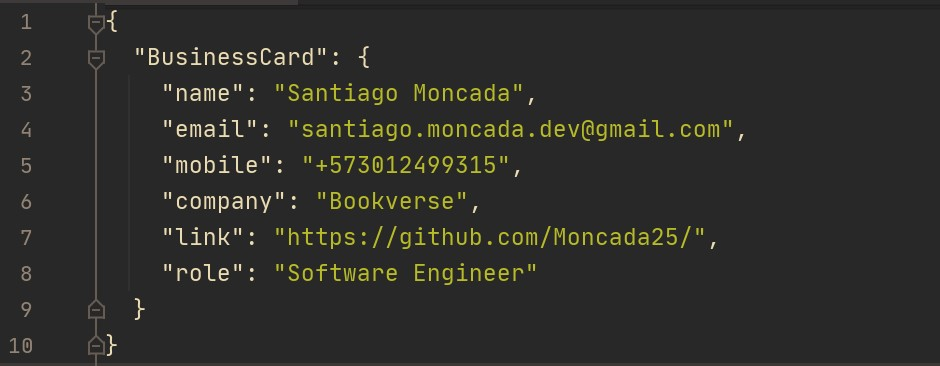
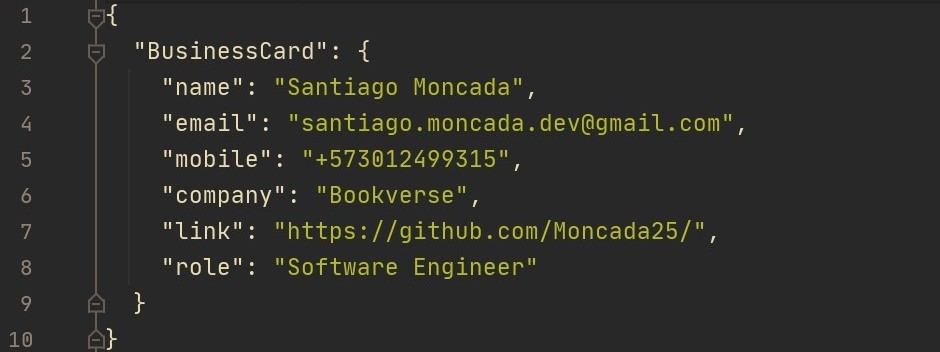
business card updated

diff --git a/src/main/java/com/bookverse/development/packapps/views/Card.java b/src/main/java/com/bookverse/development/packapps/views/Card.java
@@ -25,13 +25,13 @@ public class Card extends JDialog implements MouseListener {
     ImageIcon image = new ImageIcon(resources.getImage("business.jpg"));
     imageCard = new JLabel();
     imageCard.setIcon(image);
-    imageCard.setSize(940, 366);
+    imageCard.setSize(940, 352);
     imageCard.addMouseListener(this);
     add(imageCard, BorderLayout.CENTER);
   }
 
   public void start(JFrame parent) {
-    setSize(945, 591);
+    setSize(945, 377);
     setResizable(false);
     setLocationRelativeTo(parent);
     setTitle("Developed by");
